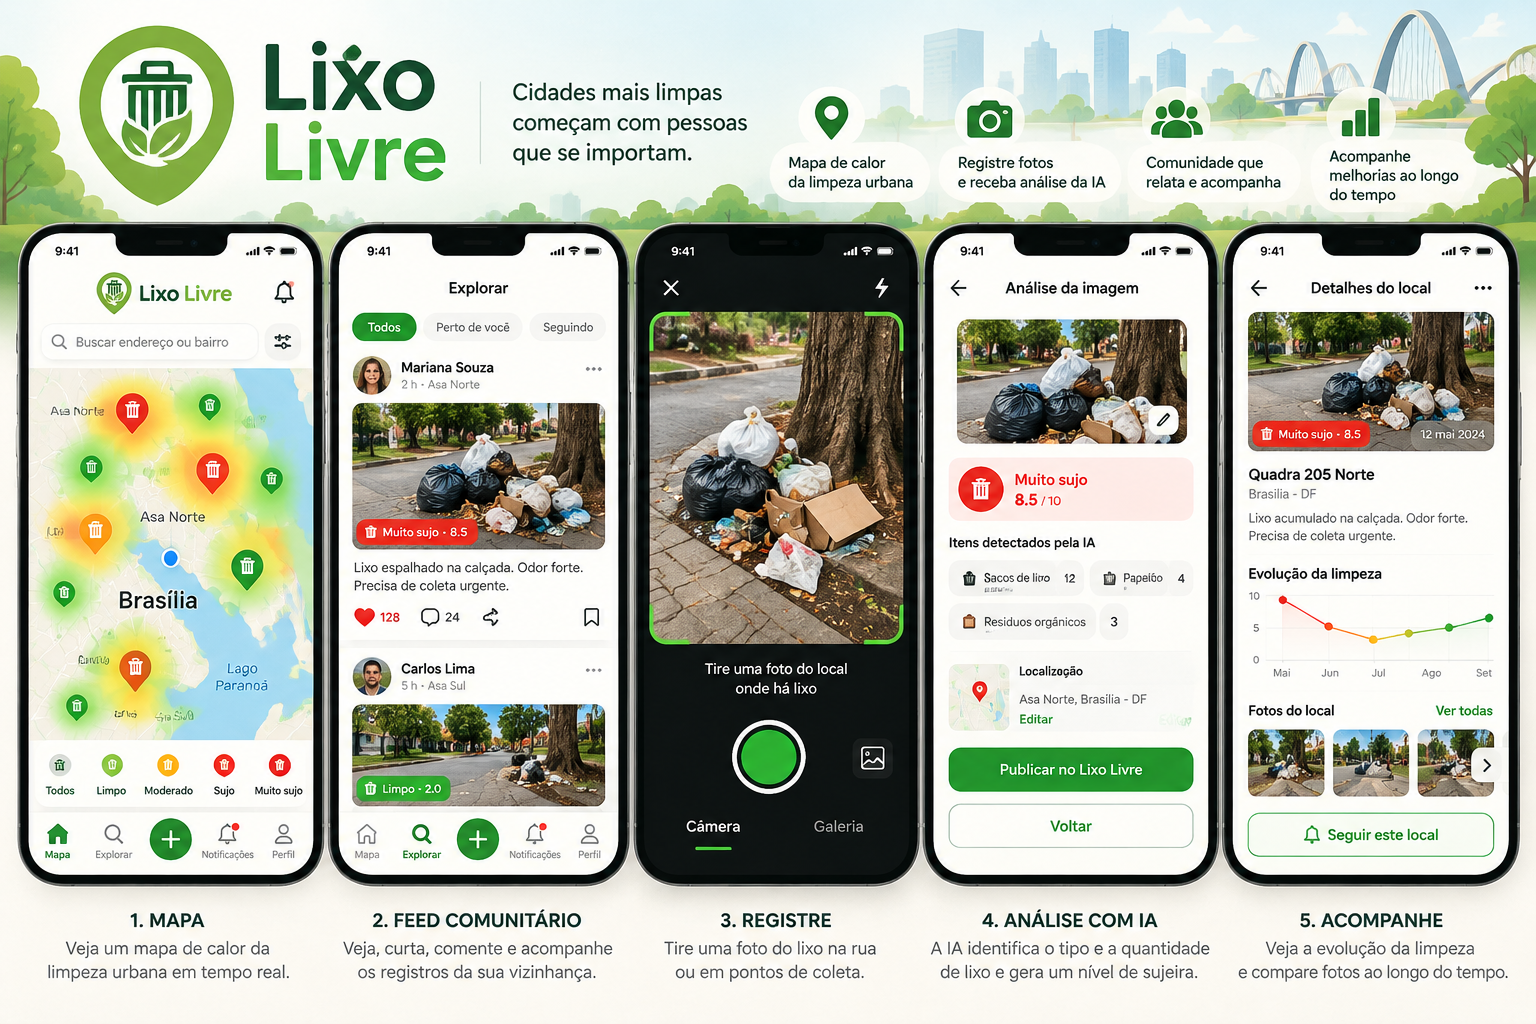
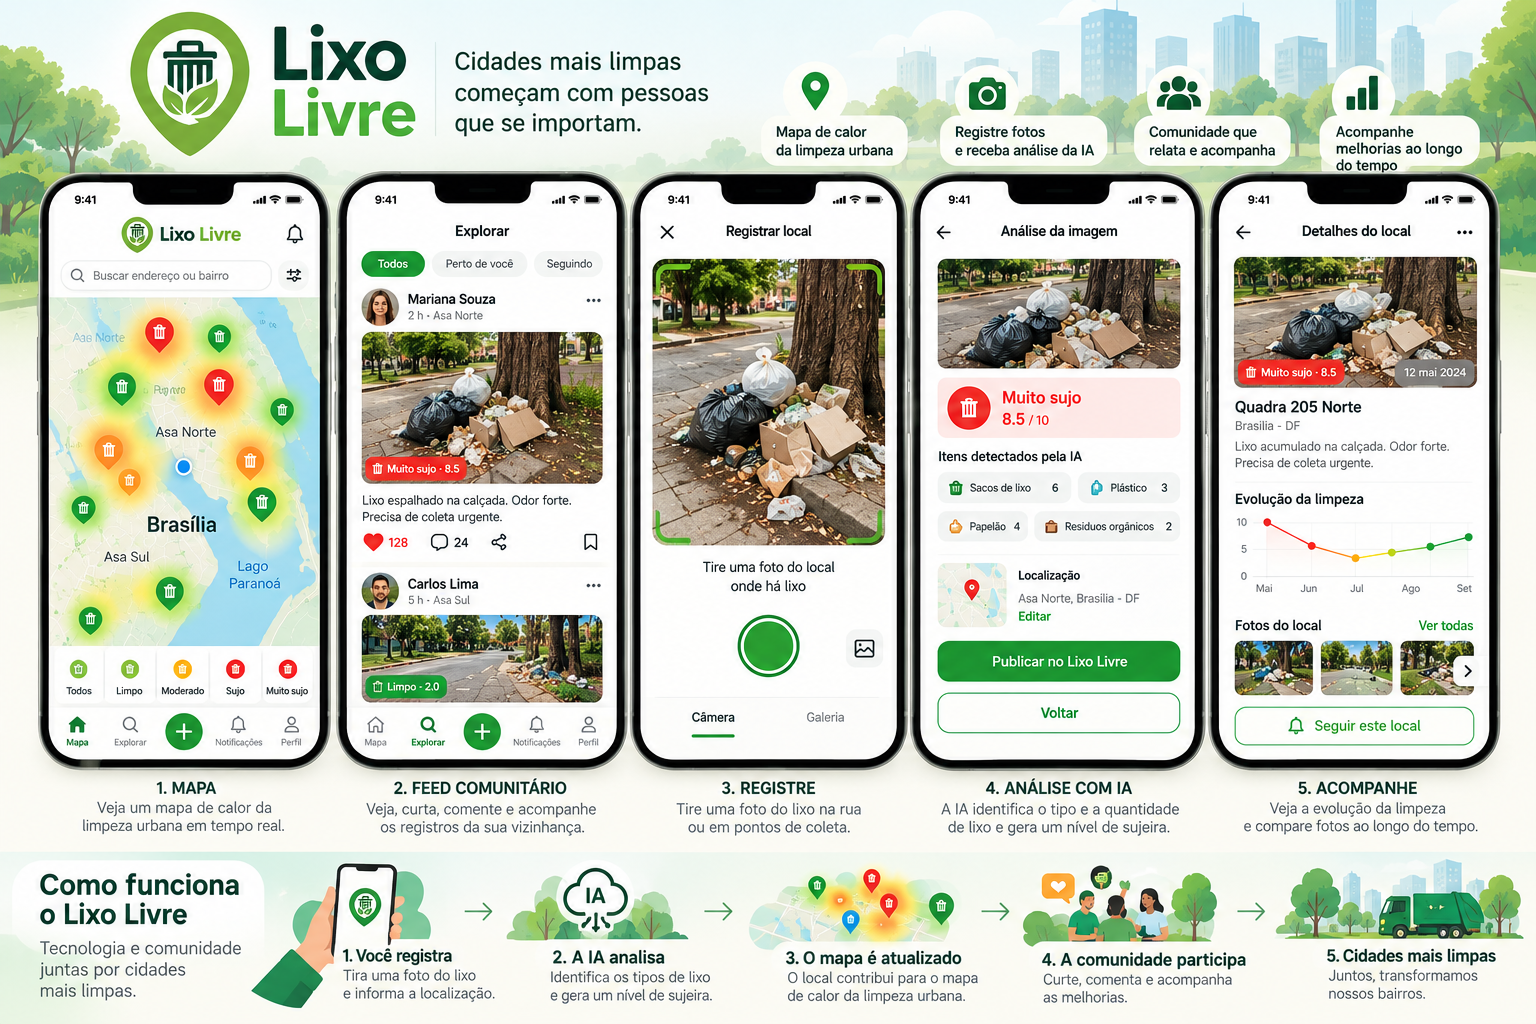
README: new concept board with the "how it works" strip
Claude-Session: https://claude.ai/code/session_01R1dgf6dppdRBs4y9UKJKgH

diff --git a/README.md b/README.md
@@ -8,11 +8,17 @@ Heatmap of how dirty each neighborhood is, built from photos people take of tras
 
 ![Lixo Livre app flow: map, community feed, camera, AI analysis, follow-up](docs/concept-app-flow.png)
 
-The app flow in five steps: **1. Map** (real-time heat map of urban cleanliness), **2. Community feed** (see, like,
-comment and follow reports from your neighborhood), **3. Report** (take a photo of the trash), **4. AI analysis**
-(the AI identifies the type and amount of trash and gives a dirtiness level) and **5. Follow-up** (see how a spot
-changes over time and compare photos). In this repo the severity scale is 0-100 (the mock-ups show 8.5/10); see
-[Severity scale](#severity-scale).
+The top of the board shows the five app screens, the bottom strip shows how it works. The screens:
+**1. Map** (real-time heat map of urban cleanliness), **2. Community feed** (see, like, comment and follow
+reports from your neighborhood), **3. Report** (take a photo of the trash), **4. AI analysis** (the AI identifies
+the type and amount of trash and gives a dirtiness level) and **5. Follow-up** (see how a spot changes over
+time and compare photos).
+
+How it works: **you report** (a photo plus the location) → **the AI analyzes** (trash types and a dirtiness
+level) → **the map updates** (the spot adds to the urban heat map) → **the community takes part** (like, comment,
+follow the improvements) → **cleaner cities**.
+
+In this repo the severity scale is 0-100 (the mock-ups show 8.5/10); see [Severity scale](#severity-scale).
 
 ## Product concept
 
